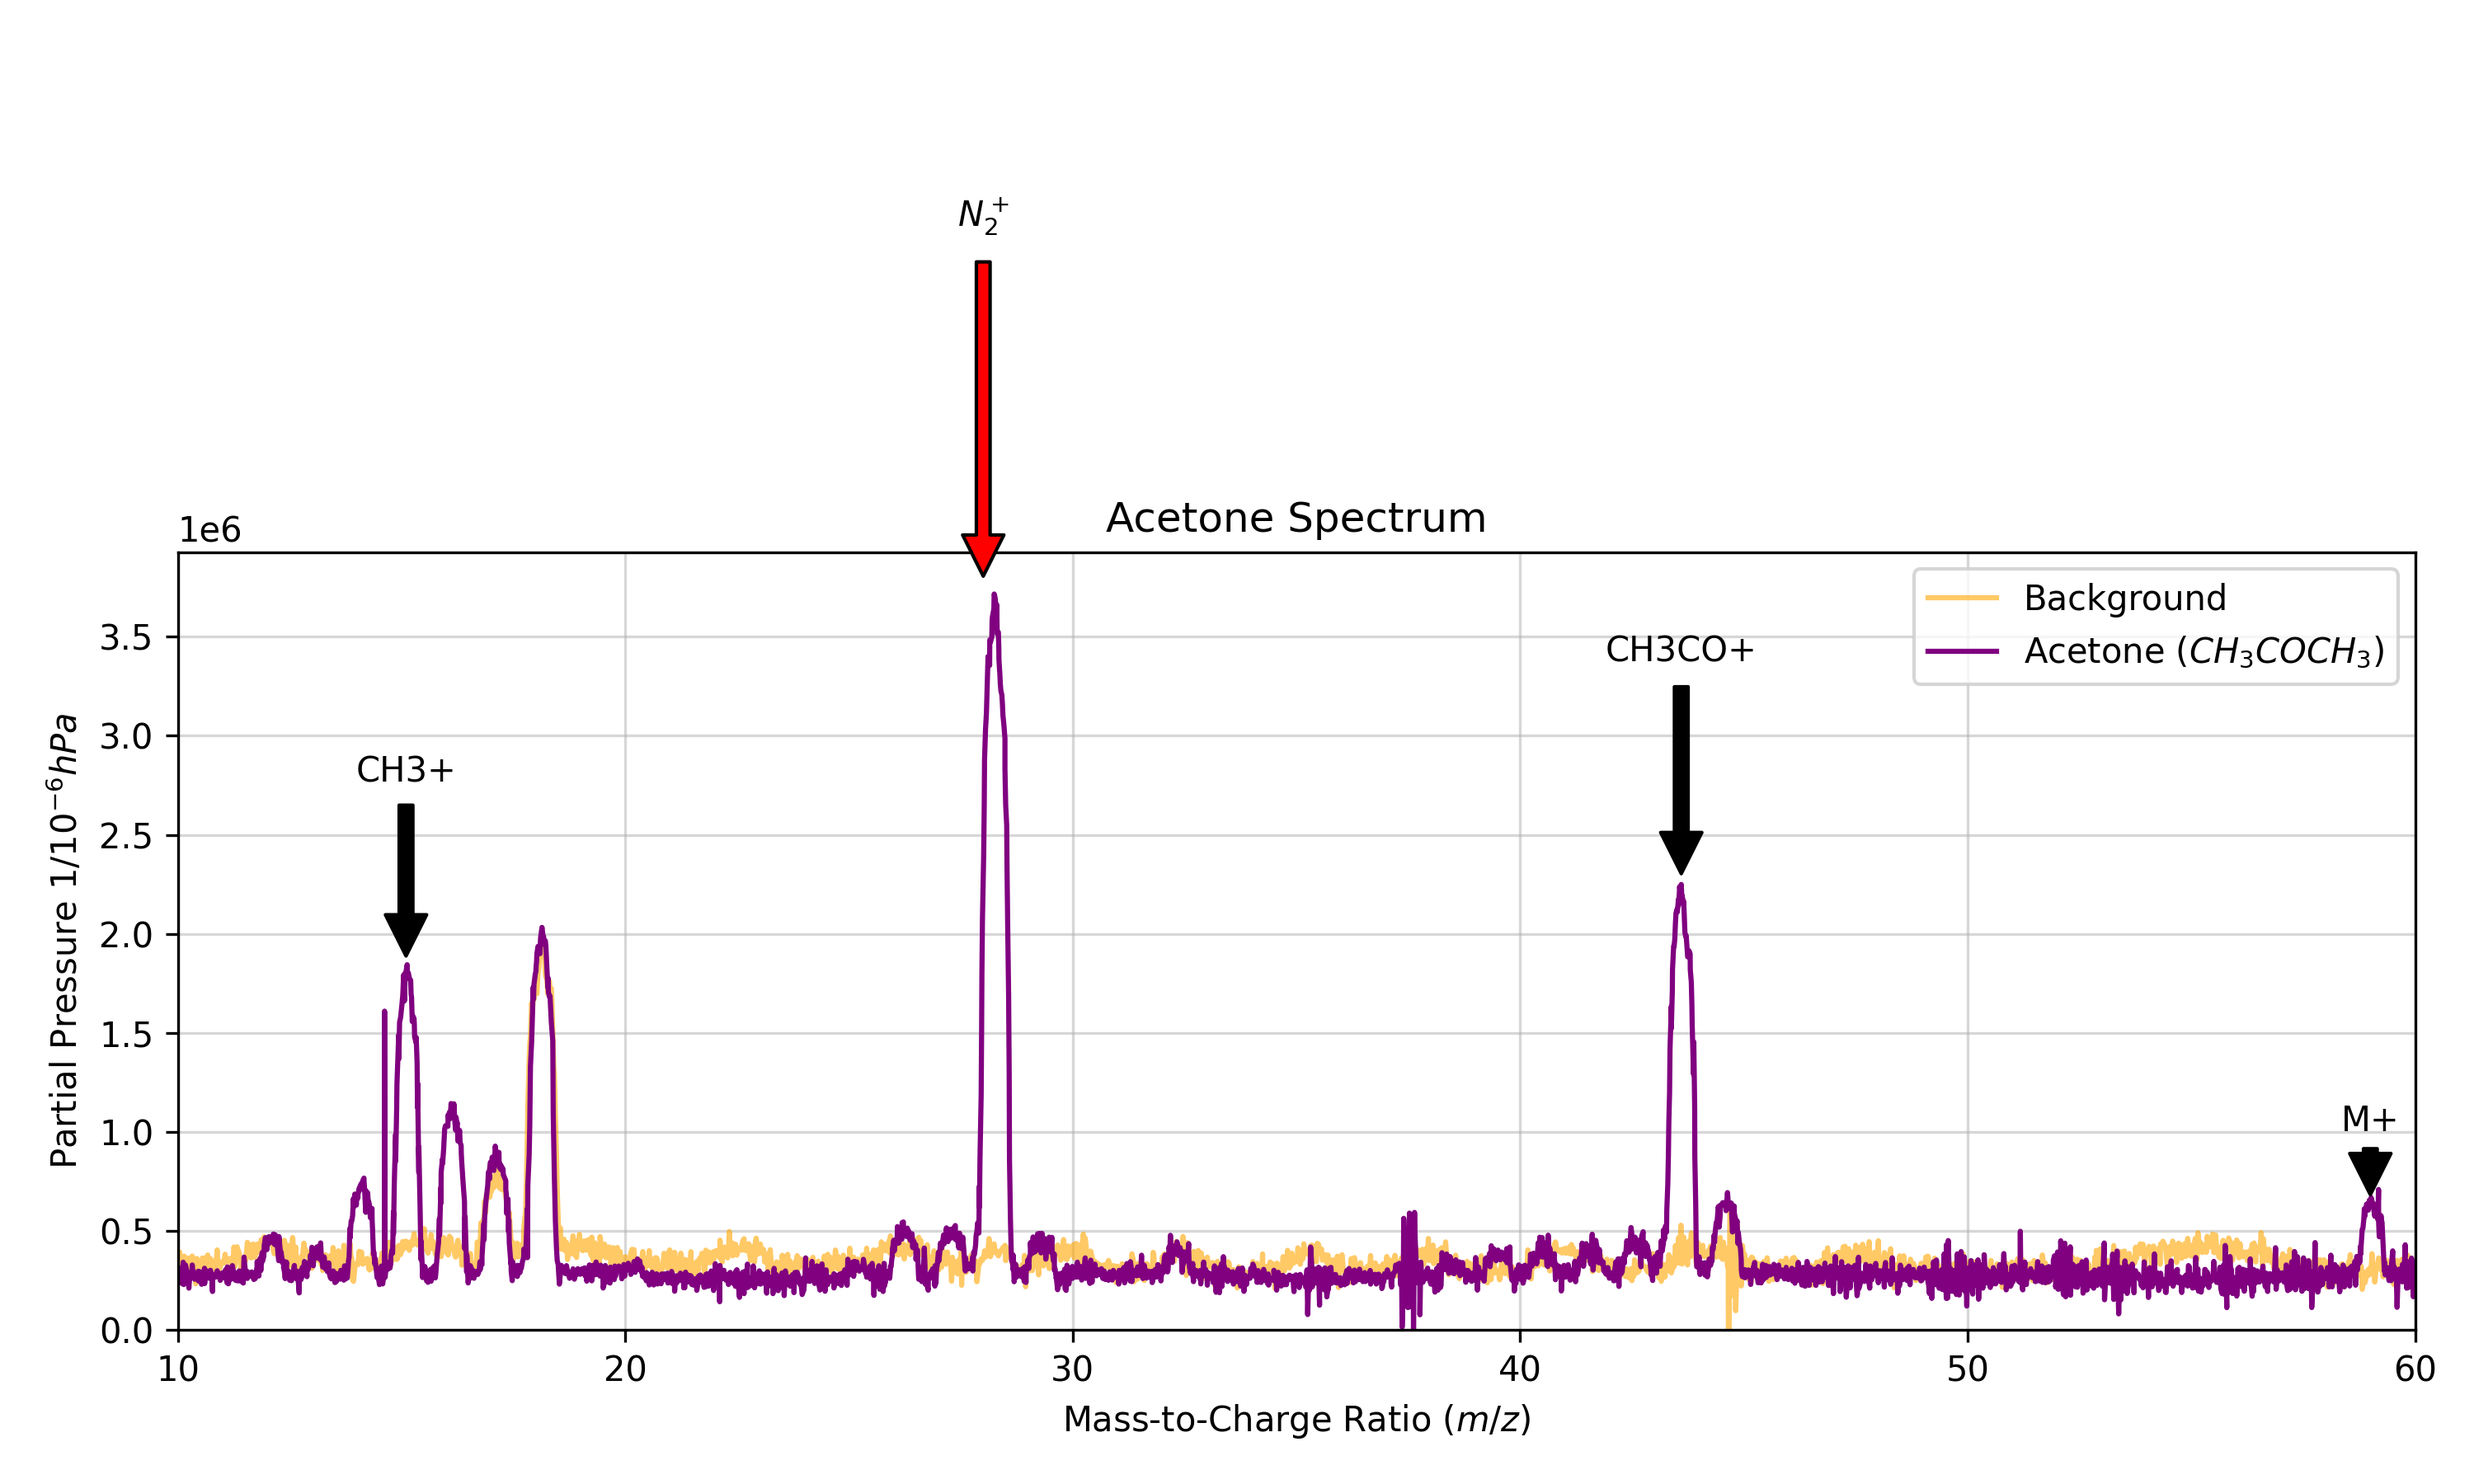
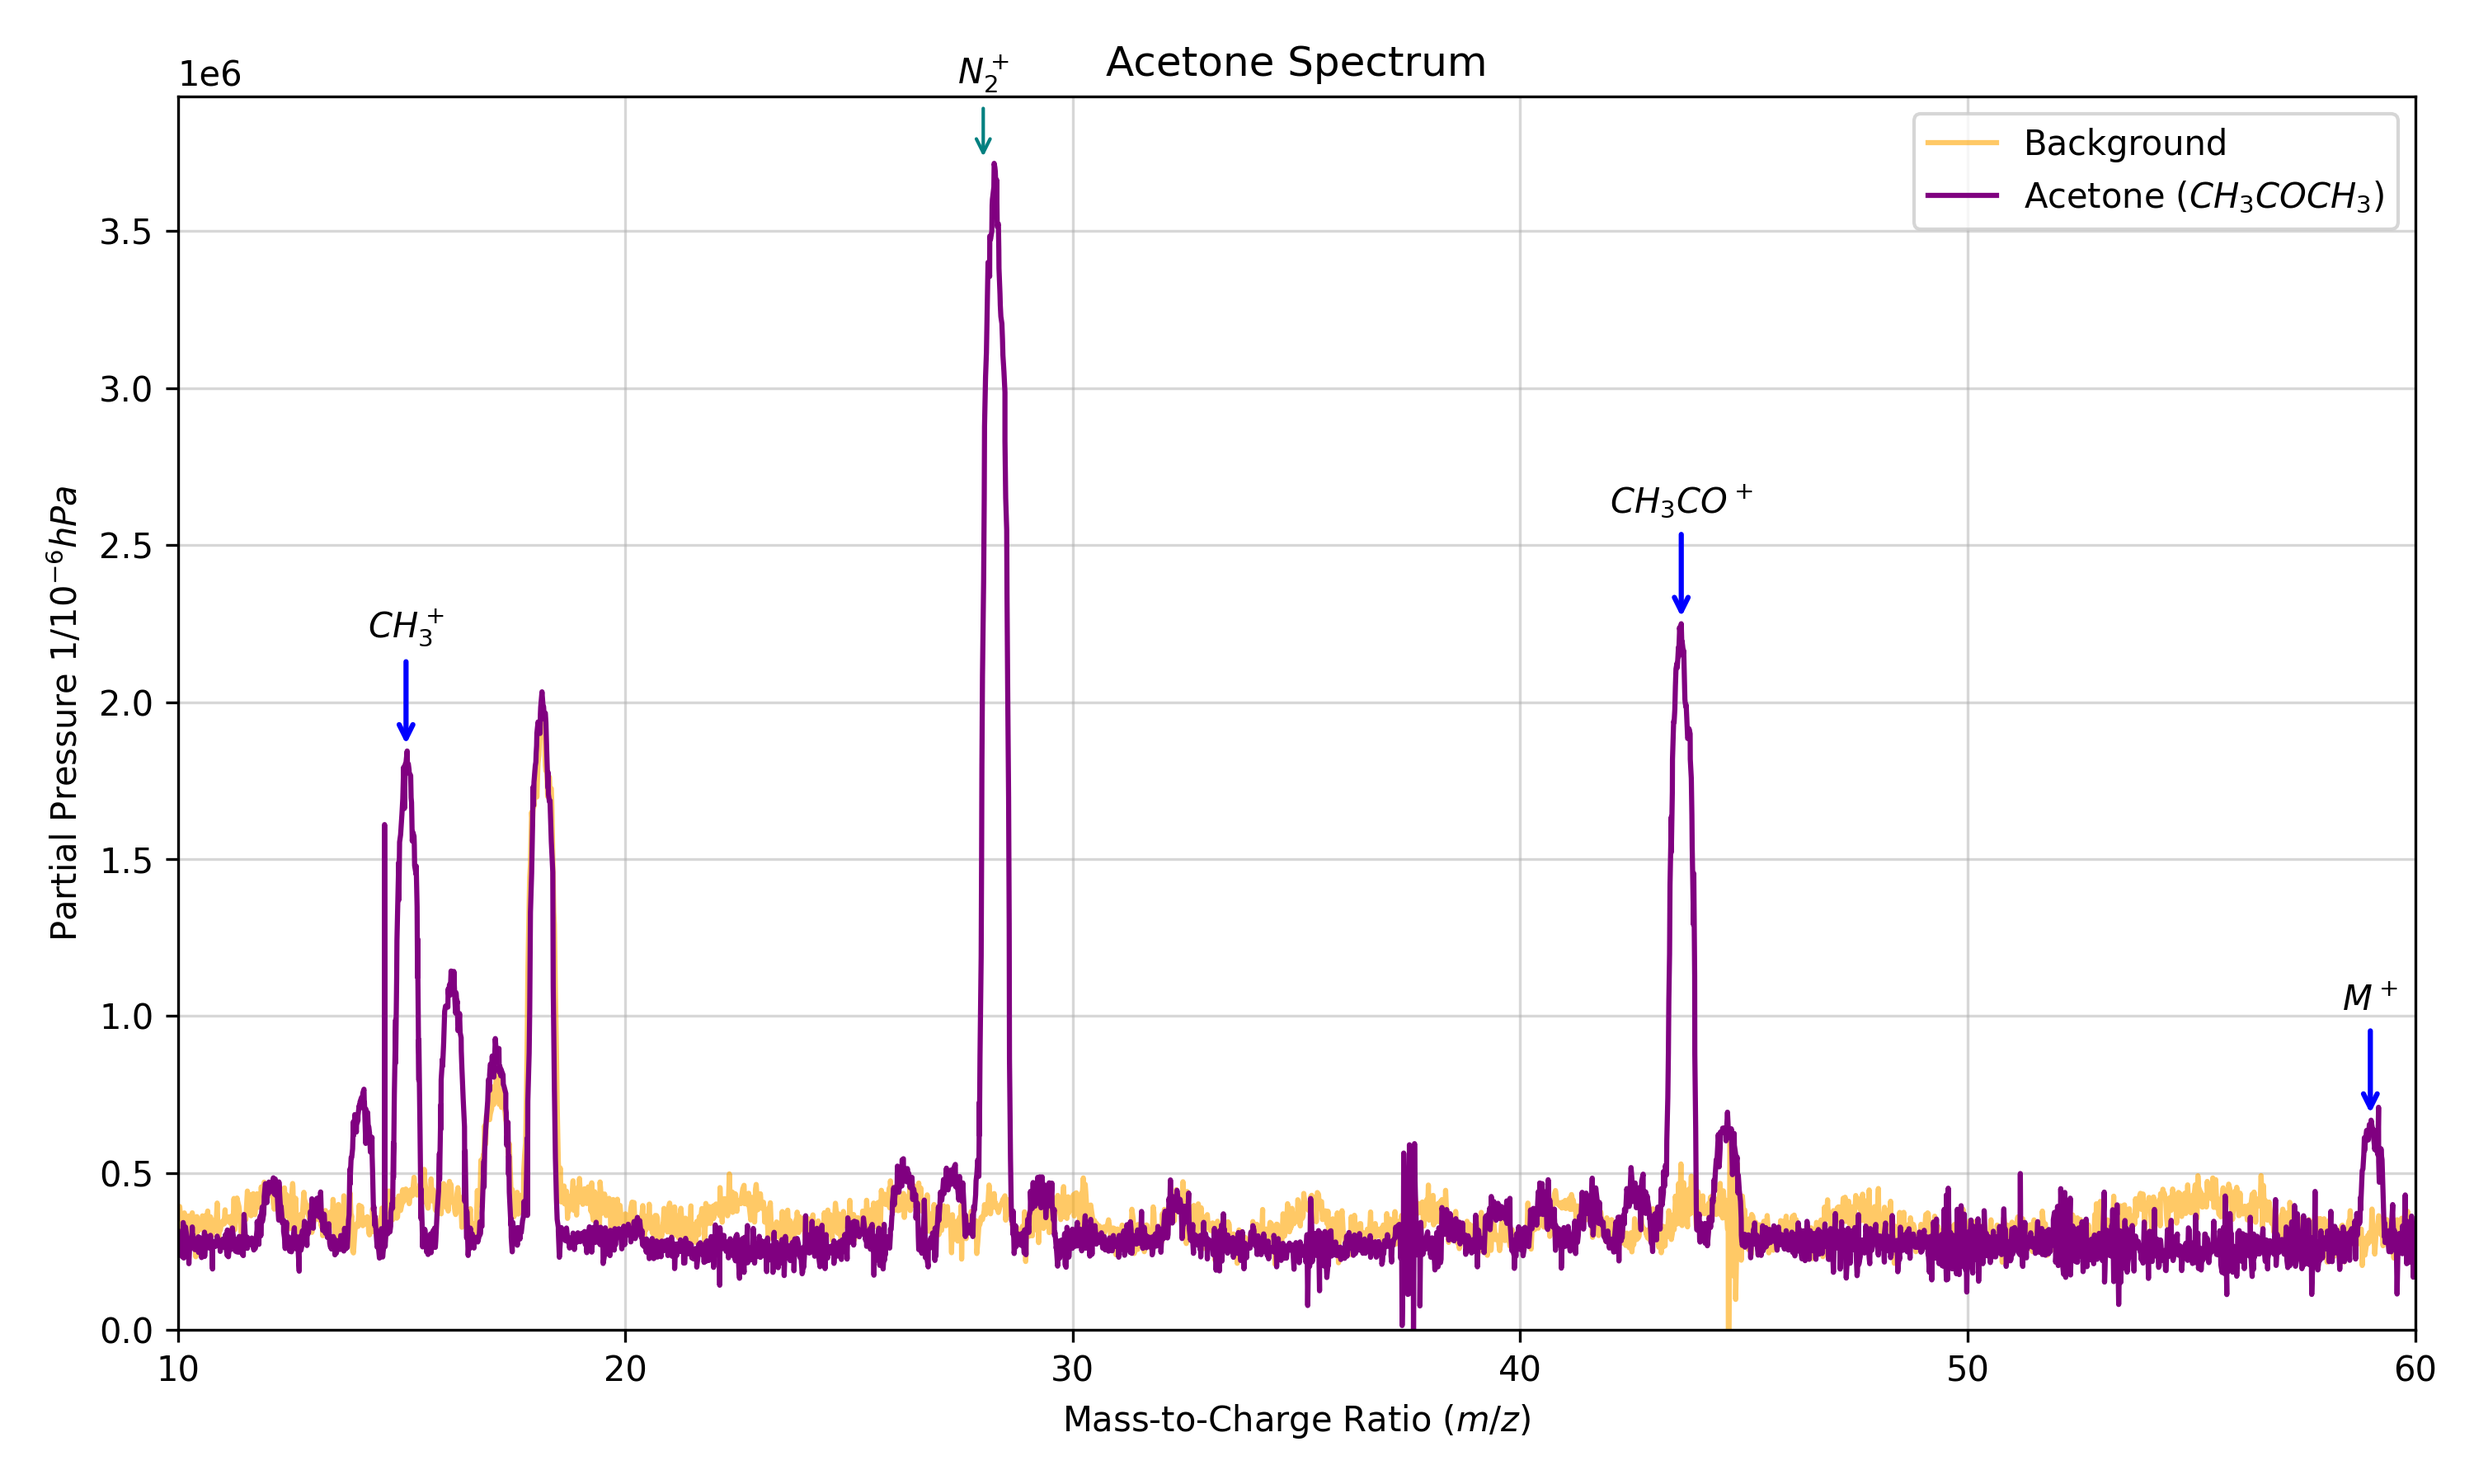
Task 2 finished

diff --git a/resources/task_5_2.py b/resources/task_5_2.py
@@ -24,18 +24,44 @@ def run_task_5_2():
     plt.plot(m, i_norm, color='purple', label='Acetone ($CH_3COCH_3$)')
     
     # Annotate Fragments
-    peaks = [(59, 'M+'), (43.6, 'CH3CO+'), (15.1, 'CH3+')]
-    impurities = [(28, '$N_2^+$')]
+    peaks = [(59, '$M^+$'), (43.6, '$CH_3CO^+$'), (15.1, '$CH_3^+$')]
+    sub_peaks = [(28, '$CO^+&N_2^+$')]
     for mass, txt in peaks:
         h = get_peak_height_robust(m, i_norm, mass, 1.0)
         if h > 0:
-            plt.annotate(txt, xy=(mass, h), xytext=(mass, h*1.5),
-                         arrowprops=dict(facecolor='black', shrink=0.05), ha='center')
-    for mass, txt in impurities:
+            plt.annotate(
+                txt, 
+                xy=(mass, h), 
+                xytext=(0, 30),              # Position text 30 points above the peak
+                textcoords='offset points',  # Use relative offset instead of absolute scaling
+                arrowprops=dict(
+                    arrowstyle='->',         # Slimmer, cleaner arrow head
+                    connectionstyle='arc3',  # Straight line
+                    color='blue',           # Use 'red' for impurities
+                    lw=1.5                   # Line width
+                ),
+                ha='center',
+                va='bottom',
+                fontweight='bold'
+            )
+    for mass, txt in sub_peaks:
         h = get_peak_height_robust(m, i_norm, mass, 1.0)
         if h > 0:
-            plt.annotate(txt, xy=(mass, h), xytext=(mass, h*1.5),
-                         arrowprops=dict(facecolor='red', shrink=0.05), ha='center')
+            plt.annotate(
+                txt, 
+                xy=(mass, h), 
+                xytext=(0, 20),              # Position text 30 points above the peak
+                textcoords='offset points',  # Use relative offset instead of absolute scaling
+                arrowprops=dict(
+                    arrowstyle='->',         # Slimmer, cleaner arrow head
+                    connectionstyle='arc3',  # Straight line
+                    color='teal',           # Use 'red' for impurities
+                    lw=1                  # Line width
+                ),
+                ha='center',
+                va='bottom',
+                fontweight='bold'
+            )
 
     plt.xlim(10, 60)
     plt.ylim(0)

diff --git a/Evaluation/Evaluation_QMS.tex b/Evaluation/Evaluation_QMS.tex
@@ -542,7 +542,7 @@ After completing all measurements, emission was switched to \texttt{OFF} first, 
 % --- Results ---
 \section{Results}
 \subsection{Argon Spectrum}
-A measurement of the background spectrum was recorded to implement a background subtraction to the recorded spectrum of the ionized Argon. First, both spectrum were normalized by pressure and then the background spectrum was subtracted from the Argon spectrum (Figure~\ref{fig:argon}).  The effect of the substraction is substantially noticeable in the $H_2O^+$ peak ($18m/z$). We can appreciate potential impurities around the $28m/z$ range, attributed to $N_2^+$. The comparison to the reference spectrum confirms the expected peaks found in our data (Figure~\ref{fig:argon-reference}).
+A measurement of the background spectrum was recorded to implement a background subtraction to the recorded spectrum of the ionized Argon. First, both spectrum were normalized by pressure and then the background spectrum was subtracted from the Argon spectrum (Figure~\ref{fig:argon}). The effect of the substraction is substantially noticeable in the $H_2O^+$ peak ($18m/z$). We can appreciate potential impurities around the $28m/z$ range, attributed to $N_2^+$. The comparison to the reference spectrum confirms the expected peaks found in our data (Figure~\ref{fig:argon-reference}).
 
 \begin{figure}[htbp]
   \centering

diff --git a/resources/task_5_1.py b/resources/task_5_1.py
@@ -54,6 +54,7 @@ def run_task_5_1():
     plt.text(35.5, h*2, '$^{36}Ar^{+}$', ha='center', va='bottom', color='blue')
 
     # -- IMPURITIES --
+    # N2+
     h = get_peak_height_robust(m_ar, i_clean, 28.0, 1.0)
     plt.text(27.5, h*2, '$N_{2}^{+}$', ha='center', va='bottom', color='red')
     
